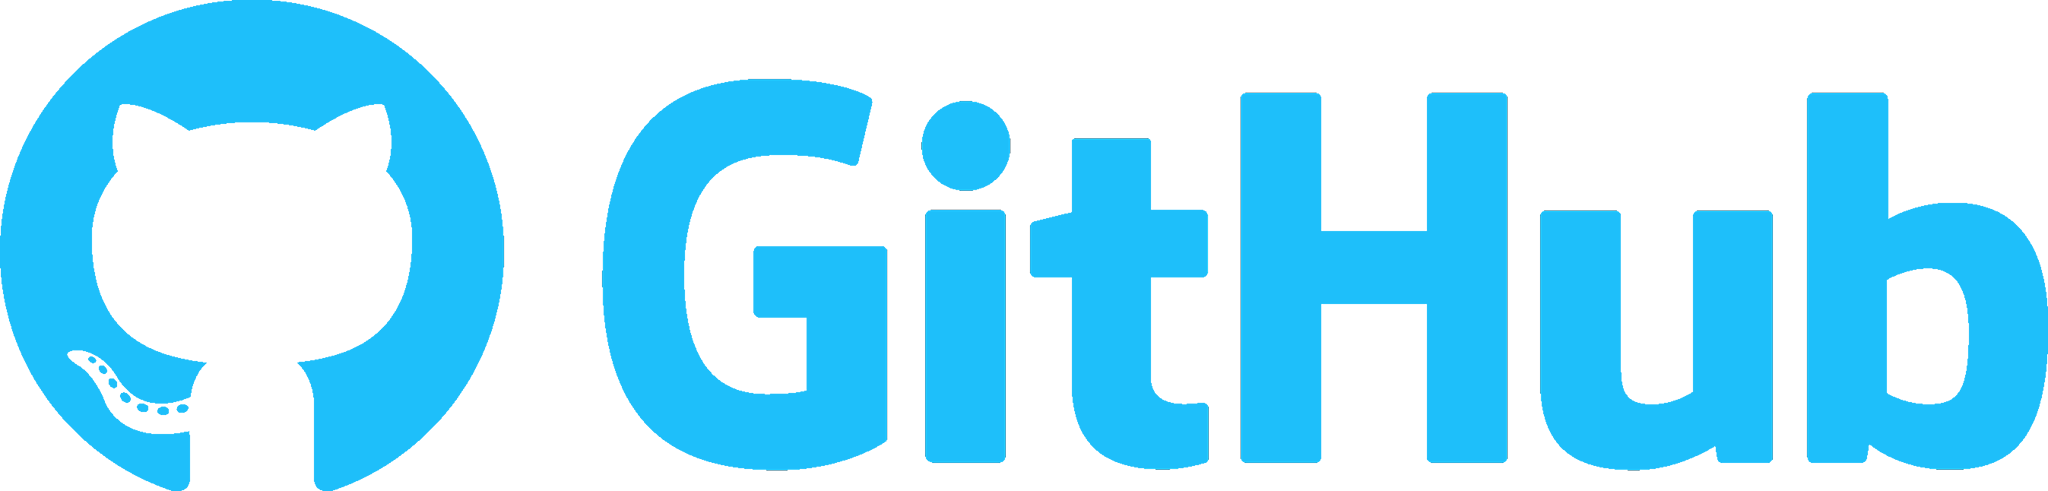
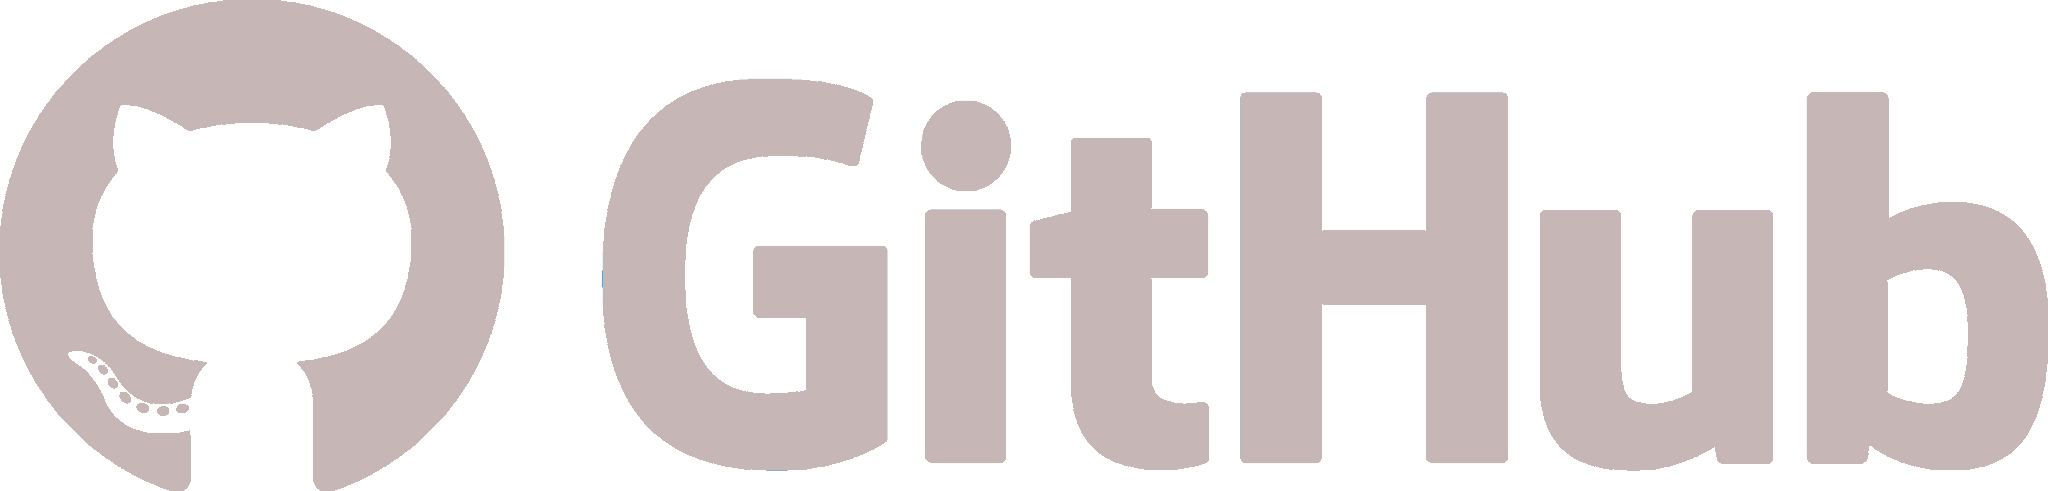
Add charts, rebrand app
Add a new chart, change the whole app design by variable

diff --git a/src/components/chartComponent/ChartComponent.vue b/src/components/chartComponent/ChartComponent.vue
@@ -4,11 +4,13 @@
         {{ this.$store.state.baseCurrency.cc }}/{{ this.$store.state.targetCurrency.cc }}
         timeseries from last year
       </p>
+      <datachart id="dataChart" :chartdata="chartdata" :options="options"/>
     </div>
 </template>
 
 <script>
 import axios from 'axios';
+import datachart from '@/components/chartComponent/chart/Chart.vue';
 
 let actualDate;
 let pastDate;
@@ -33,8 +35,9 @@ if (month < 10 && day < 10) {
 }
 
 export default {
-  name: 'Chart',
+  name: 'ChartComponent',
   components: {
+    datachart,
   },
 
   data() {
@@ -44,6 +47,18 @@ export default {
       history: [],
       historyDate: String,
       historyRate: String,
+      chartdata: {
+        labels: ['Dummy1', 'Dummy2', 'Dummy3'],
+        datasets: [{
+          label: 'Rates',
+          backgroundColor: '#c7b6b6',
+          data: [1000, 500, 200],
+        }],
+      },
+      options: {
+        responsive: true,
+        maintainAspectRatio: false,
+      },
     };
   },
 
@@ -92,9 +107,9 @@ export default {
   },
 
   mounted() {
-    this.dataChart.render();
+    this.renderChart(this.chartdata, this.options);
   },
 };
 </script>
 
-<style src="./Chart.scss" lang="scss"/>
+<style src="./ChartComponent.scss" lang="scss"/>

diff --git a/src/components/selectmenu/Selectmenu.scss b/src/components/selectmenu/Selectmenu.scss
@@ -21,7 +21,7 @@
 
   .instruction {
     font-weight: 500;
-    color: #199ac9;
+    color: $primary;
     text-align: center;
     padding: 0% 3%;
   }
@@ -91,7 +91,7 @@
     text-align: center;
   }
   .amountInput::placeholder {
-    color:#32b9eb;
+    color: $primary;
   }
   .amountInput:focus {
     transition: cubic-bezier(0.19, 1, 0.22, 1) 200ms;
@@ -114,7 +114,7 @@
 }
 
 .v-select .vs__dropdown-menu {
-  background-color: rgb(39, 35, 35);
+  background-color: $backgrundColor;
   border: 1px solid $primary;
   font-family: 'Josefin Sans', sans-serif;
   font-weight: 600;
@@ -163,5 +163,5 @@
 
 
 .v-select .vs__dropdown-menu .vs__dropdown-option--highlight {
-    background: rgb(32, 32, 32);
+    background: rgb(51, 51, 51);
 }

diff --git a/src/views/Home/Home.vue b/src/views/Home/Home.vue
@@ -1,22 +1,22 @@
 <template>
   <div class="home">
-    <Selectmenu class="selectMenu"/>
+    <SelectMenu class="selectMenu"/>
     <span class="whiteSpace"/>
     <Rate class="rate"/>
-    <Chart class="chart"/>
+    <ChartComponent class="chart"/>
   </div>
 </template>
 
 <script>
-import Chart from '@/components/chart/Chart.vue';
-import Selectmenu from '@/components/selectmenu/Selectmenu.vue';
+import ChartComponent from '@/components/chartComponent/ChartComponent.vue';
+import SelectMenu from '@/components/selectMenu/SelectMenu.vue';
 import Rate from '@/components/rate/Rate.vue';
 
 export default {
   name: 'Home',
   components: {
-    Chart,
-    Selectmenu,
+    ChartComponent,
+    SelectMenu,
     Rate,
   },
 };

diff --git a/src/components/rate/Rate.scss b/src/components/rate/Rate.scss
@@ -1,6 +1,6 @@
 .rate {
   font-size: 0.95em;
-  color: #1cace0;
+  color: $primary;
   text-transform: uppercase;
   text-align: center;
   float: left;
@@ -8,7 +8,7 @@
   min-width: 320px;
   margin-top: 22%;
   padding-left: 1.5em;
-  background-color: rgb(35, 35, 35);
+  background-color: $backgrundColor;
   box-shadow: (2px 8px 30px -15px $primary);
   height: 580px;
   border: solid 1px $primary;
@@ -43,7 +43,7 @@
     font-size: 0.85em;
     text-align: justify;
     margin: 60px 30px 20px 0px;
-    color: #31748d;
+    color: $primary;
 
     span {
       font-size: 1.1em;
@@ -55,7 +55,6 @@
     margin: 58px 30px 10px 0px;
     font-weight: 600;
     font-size: 0.85em;
-    color: #31748d;
   }
 
   .apiIcon {

diff --git a/tests/unit/Home.spec.js b/tests/unit/Home.spec.js
@@ -2,13 +2,13 @@ import { expect } from 'chai';
 import { shallowMount } from '@vue/test-utils';
 import Home from '@/views/Home/Home.vue';
 
-describe('home.vue test', () => {
+describe('Home.vue test', () => {
   const wrapper = shallowMount(Home);
 
   it('Check the name of home view and that 3 child components are rendered', () => {
     expect(wrapper.name()).to.match(/Home/);
-    expect(wrapper.findAll('.Selectmenu').exists());
+    expect(wrapper.findAll('.SelectMenu').exists());
     expect(wrapper.findAll('.Rate').exists());
-    expect(wrapper.findAll('.Chart').exists());
+    expect(wrapper.findAll('.ChartComponent').exists());
   });
 });

diff --git a/src/components/chartComponent/ChartComponent.scss b/src/components/chartComponent/ChartComponent.scss
@@ -9,10 +9,6 @@
   border-radius: 10px;
   margin: 50px 30px 30px 30px;
 
-  @media only screen and (max-width: 750px) {
-    height: 480px;
-  }
-
   p {
     font-size: 1.3em;
     margin-top: 5%;
@@ -38,7 +34,8 @@
   }
 
   #dataChart {
-    margin: 5% 1% 3% 2%;
+    height: 82.2%;
+    margin: 3% 1% 3% 2%;
 
     @media only screen and (max-width: 1520px) {
       padding-bottom: -1%;

diff --git a/src/components/chartComponent/chart/Chart.vue b/src/components/chartComponent/chart/Chart.vue
@@ -1,0 +1,22 @@
+<script>
+import { Line } from 'vue-chartjs';
+
+export default {
+  extends: Line,
+  props: {
+    chartdata: {
+      type: Object,
+      default: null,
+    },
+    options: {
+      type: Object,
+      default: null,
+    },
+  },
+
+  mounted() {
+    this.renderChart(this.chartdata, this.options);
+  },
+};
+
+</script>

diff --git a/src/components/selectmenu/Selectmenu.vue b/src/components/selectmenu/Selectmenu.vue
@@ -38,7 +38,7 @@
 <script>
 
 export default {
-  name: 'Selectmenu',
+  name: 'SelectMenu',
 
   data() {
     return {
@@ -89,4 +89,4 @@ export default {
 };
 </script>
 
-<style src="./Selectmenu.scss" lang="scss"/>
+<style src="./SelectMenu.scss" lang="scss"/>

diff --git a/src/assets/styles/var/colors.scss b/src/assets/styles/var/colors.scss
@@ -1,4 +1,4 @@
-$primary: #1ebffa;
-$secondary: #31748d;
+$primary: #c7b6b6;
+$secondary: #918d8d;
 $hoverBtn: rgba(255, 255, 255, .2);
-$backgrundColor: rgb(35, 35, 35);
+$backgrundColor: rgb(48, 38, 38);

diff --git a/src/App.scss b/src/App.scss
@@ -2,5 +2,5 @@
 
 .app {
   font-family: 'Josefin Sans', sans-serif;
-  color: #1ebffa;
+  color: $primary;
 }
